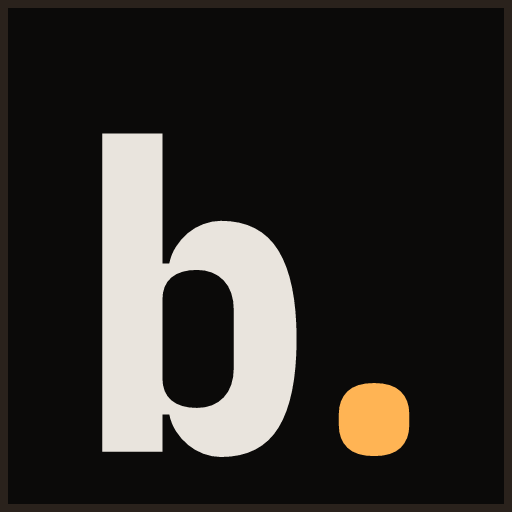
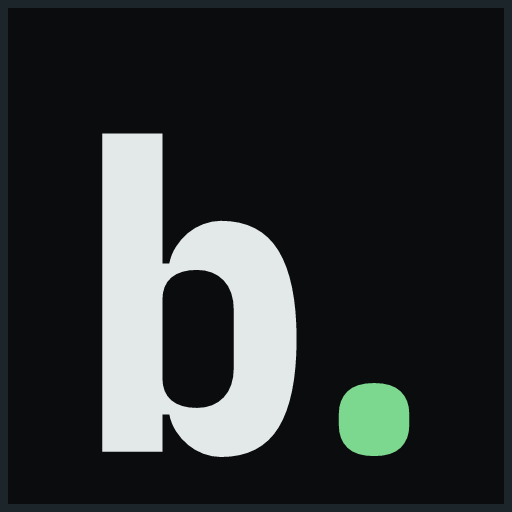
Recolour: cool neutrals, phosphor green, accent on a diet
The warm near-black and amber read as someone else's brand. Neutrals
are now cool with a slight blue bias, which keeps the green accent
reading as phosphor rather than as something organic.

More importantly, colour now has three orthogonal channels and nothing
carries two meanings:

  hue       = category   (software / infra / hardware)
  luminance = state      (active brightest, planned dimmest)
  accent    = interaction, and nothing else

That fell out of the palette change. With a green accent, `shipped`
could no longer also be green, so status moved off hue entirely and
onto brightness — which is how an instrument panel signals state
anyway, and the label text says which state it is regardless.

Accent pulled back from decorative use: section counts, devlog entry
numbers and inline code are now neutral. It appears on links, focus,
the wordmark full stop, the active filter chip, and the shell prompt.

Favicon, OG cards, theme-color and manifest regenerated to match.

Changed region(s): [[0.6562, 0.75, 0.8125, 0.9062]]

diff --git a/src/styles/global.css b/src/styles/global.css
@@ -8,21 +8,26 @@
 :root {
   color-scheme: dark;
 
-  --bg:        #0B0A09;   /* warm near-black, so amber sits inside the palette */
-  --surface:   #131110;
-  --surface-2: #1A1715;
-  --line:      #29231F;
-  --line-hi:   #3A322C;
-  --text:      #E9E4DD;
-  --text-body: #CFC8C0;
-  --muted:     #8B8279;
-  --dim:       #5E574F;
+  /* Cool neutrals. The slight blue bias is deliberate: it keeps the green
+     accent reading as phosphor rather than as something warm and organic. */
+  --bg:        #0A0C0D;
+  --surface:   #111517;
+  --surface-2: #171C1E;
+  --line:      #1F2629;
+  --line-hi:   #2D373A;
+  --text:      #E3E8E9;
+  --text-body: #C6CFD1;
+  --muted:     #8A9496;
+  --dim:       #5C6668;
 
-  --accent:    #FFB454;   /* interaction, and the "active" state only */
-  --sw:        #6FC3E8;   /* software */
-  --inf:       #B79BFF;   /* infra */
-  --hw:        #E8886A;   /* hardware */
-  --ok:        #6FCF8A;   /* shipped */
+  /* Three orthogonal channels, so nothing has to carry two meanings:
+       hue       = category  (software / infra / hardware)
+       luminance = state     (active is brightest, planned is dimmest)
+       accent    = interaction, and nothing else                        */
+  --accent:    #7DD88F;   /* phosphor green: links, focus, the mark */
+  --sw:        #63C8EC;   /* software */
+  --inf:       #A99BFF;   /* infra */
+  --hw:        #E8836F;   /* hardware */
 
   --sans: "IBM Plex Sans", ui-sans-serif, system-ui, -apple-system, sans-serif;
   --cond: "IBM Plex Sans Condensed", "IBM Plex Sans", ui-sans-serif, system-ui, sans-serif;
@@ -103,10 +108,11 @@ a:hover { text-decoration: underline; text-underline-offset: 3px; }
 .chip[data-domain="software"] { color: var(--sw);  border-color: color-mix(in srgb, var(--sw) 34%, var(--line)); }
 .chip[data-domain="infra"]    { color: var(--inf); border-color: color-mix(in srgb, var(--inf) 34%, var(--line)); }
 .chip[data-domain="hardware"] { color: var(--hw);  border-color: color-mix(in srgb, var(--hw) 34%, var(--line)); }
-.chip[data-status="active"]   { color: var(--accent); border-color: color-mix(in srgb, var(--accent) 34%, var(--line)); }
-.chip[data-status="shipped"]  { color: var(--ok); border-color: color-mix(in srgb, var(--ok) 30%, var(--line)); }
-.chip[data-status="archived"] { color: var(--dim); }
-.chip[data-status="planned"]  { color: var(--dim); }
+.chip[data-status="active"]     { color: var(--text); border-color: var(--line-hi); }
+.chip[data-status="shipped"]    { color: var(--muted); }
+.chip[data-status="maintained"] { color: var(--muted); }
+.chip[data-status="archived"]   { color: var(--dim); }
+.chip[data-status="planned"]    { color: var(--dim); }
 
 .chips { display: flex; gap: 7px; flex-wrap: wrap; }
 
@@ -114,7 +120,7 @@ a:hover { text-decoration: underline; text-underline-offset: 3px; }
    the sections aren't a sequence, so numbers would encode nothing. */
 .shead { display: flex; align-items: center; gap: 12px; margin-bottom: 18px; }
 .shead .lbl { font-family: var(--mono); font-size: 11px; letter-spacing: 0.16em; text-transform: uppercase; color: var(--text); }
-.shead .cnt { font-family: var(--mono); font-size: 11px; color: var(--accent); font-variant-numeric: tabular-nums; }
+.shead .cnt { font-family: var(--mono); font-size: 11px; color: var(--muted); font-variant-numeric: tabular-nums; }
 .shead .rule { flex: 1; height: 1px; background: var(--line); }
 .shead .more { font-family: var(--mono); font-size: 11px; letter-spacing: 0.09em; text-transform: uppercase; color: var(--muted); }
 .shead .more:hover { color: var(--accent); text-decoration: none; }
@@ -243,7 +249,7 @@ a:hover { text-decoration: underline; text-underline-offset: 3px; }
 
 .dl-row { display: grid; grid-template-columns: 44px 96px 1fr auto; gap: 14px; align-items: baseline; padding: 12px 4px; border-bottom: 1px solid var(--line); }
 .dl-row:first-child { border-top: 1px solid var(--line); }
-.dl-row .n { font-family: var(--mono); font-size: 11.5px; color: var(--accent); font-variant-numeric: tabular-nums; }
+.dl-row .n { font-family: var(--mono); font-size: 11.5px; color: var(--muted); font-variant-numeric: tabular-nums; }
 .dl-row .date { font-family: var(--mono); font-size: 11.5px; color: var(--dim); font-variant-numeric: tabular-nums; }
 .dl-row .t a { color: var(--text); font-size: 15px; }
 .dl-row .t a:hover { color: var(--accent); text-decoration: none; }
@@ -278,7 +284,7 @@ a:hover { text-decoration: underline; text-underline-offset: 3px; }
 .prose :not(pre) > code {
   font-family: var(--mono);
   font-size: 0.88em;
-  color: var(--accent);
+  color: var(--text);
   background: var(--surface-2);
   border: 1px solid var(--line);
   border-radius: 2px;
@@ -306,7 +312,7 @@ a:hover { text-decoration: underline; text-underline-offset: 3px; }
 .cmp-bar { display: flex; align-items: center; gap: 8px; padding: 7px 12px; background: var(--surface-2); border-bottom: 1px solid var(--line); font-family: var(--mono); font-size: 10px; letter-spacing: 0.12em; text-transform: uppercase; color: var(--dim); }
 .cmp-bar .tagname { color: var(--muted); }
 .cmp pre { margin: 0; padding: 14px 16px; overflow-x: auto; font-family: var(--mono); font-size: 13px; line-height: 1.65; color: var(--text-body); }
-.cmp .pr { color: var(--ok); }
+.cmp .pr { color: var(--accent); }
 .cmp .cmd { color: var(--text); }
 .cmp .out { color: var(--muted); }
 

diff --git a/src/lib/og.ts b/src/lib/og.ts
@@ -16,15 +16,15 @@ const [cond, mono, sans] = await Promise.all([
 
 /** Same tokens as the site. An OG card that doesn't match the page is a wasted impression. */
 const C = {
-  bg: '#0B0A09',
-  line: '#29231F',
-  text: '#E9E4DD',
-  muted: '#8B8279',
-  dim: '#5E574F',
-  accent: '#FFB454',
-  software: '#6FC3E8',
-  infra: '#B79BFF',
-  hardware: '#E8886A',
+  bg: '#0A0C0D',
+  line: '#1F2629',
+  text: '#E3E8E9',
+  muted: '#8A9496',
+  dim: '#5C6668',
+  accent: '#7DD88F',
+  software: '#63C8EC',
+  infra: '#A99BFF',
+  hardware: '#E8836F',
 } as const;
 
 export interface OgInput {
